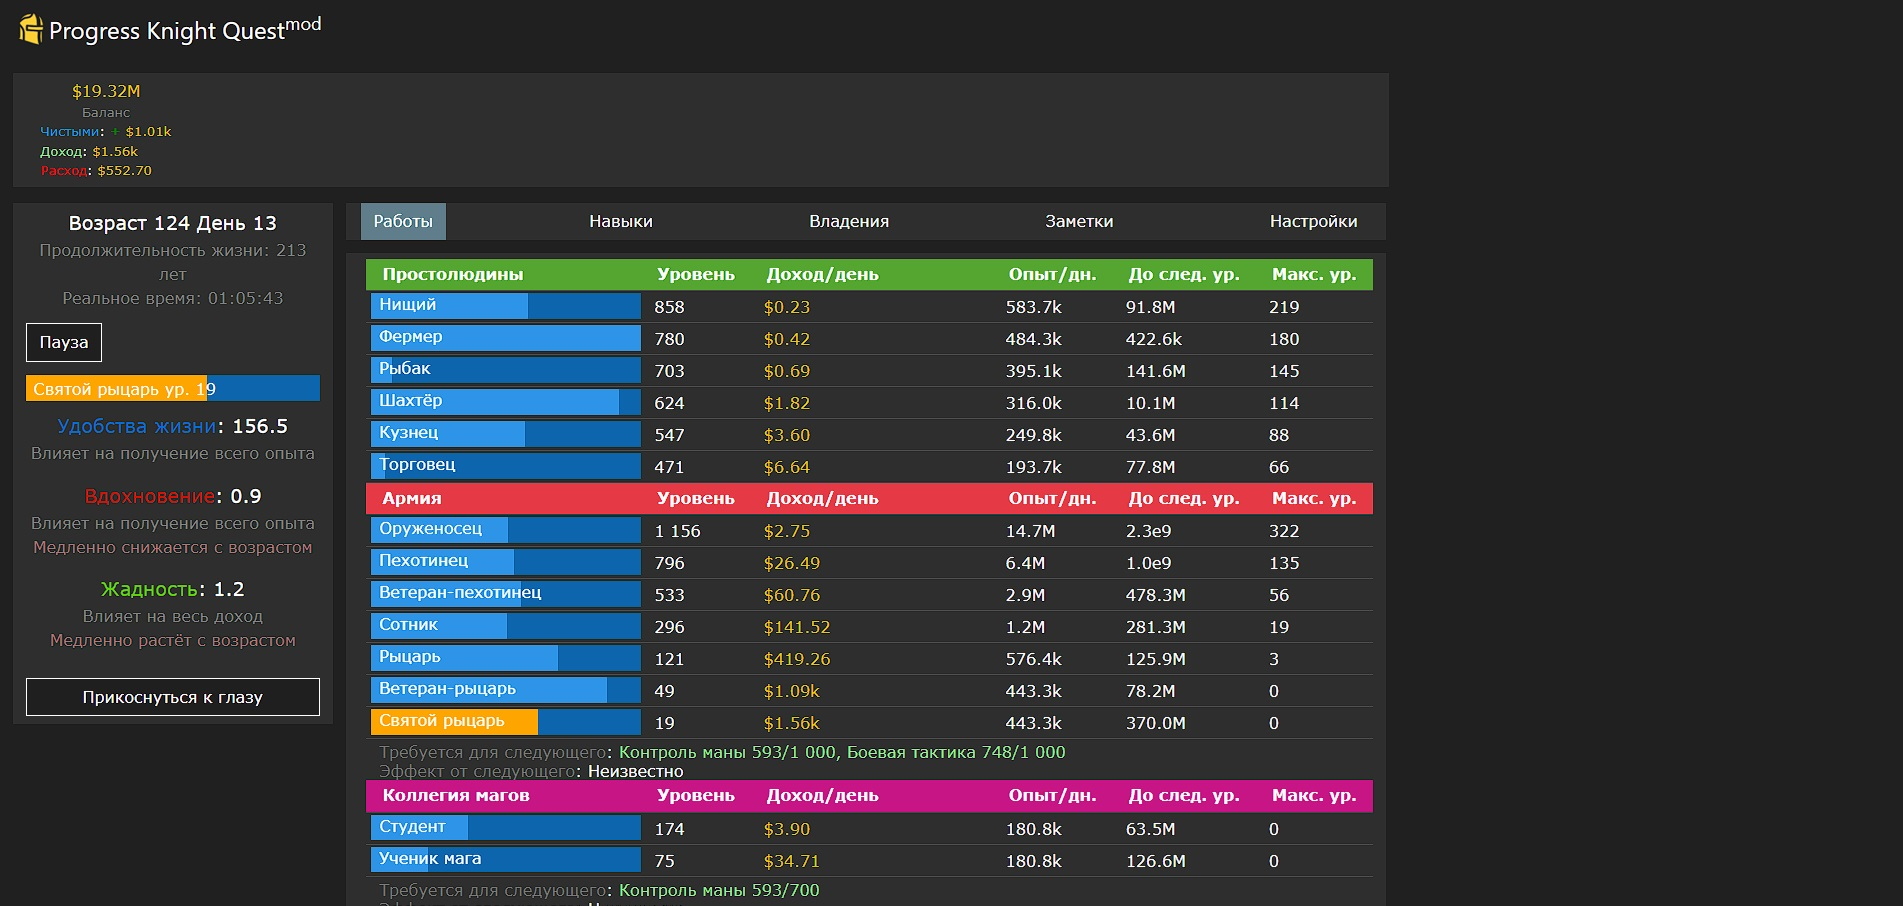
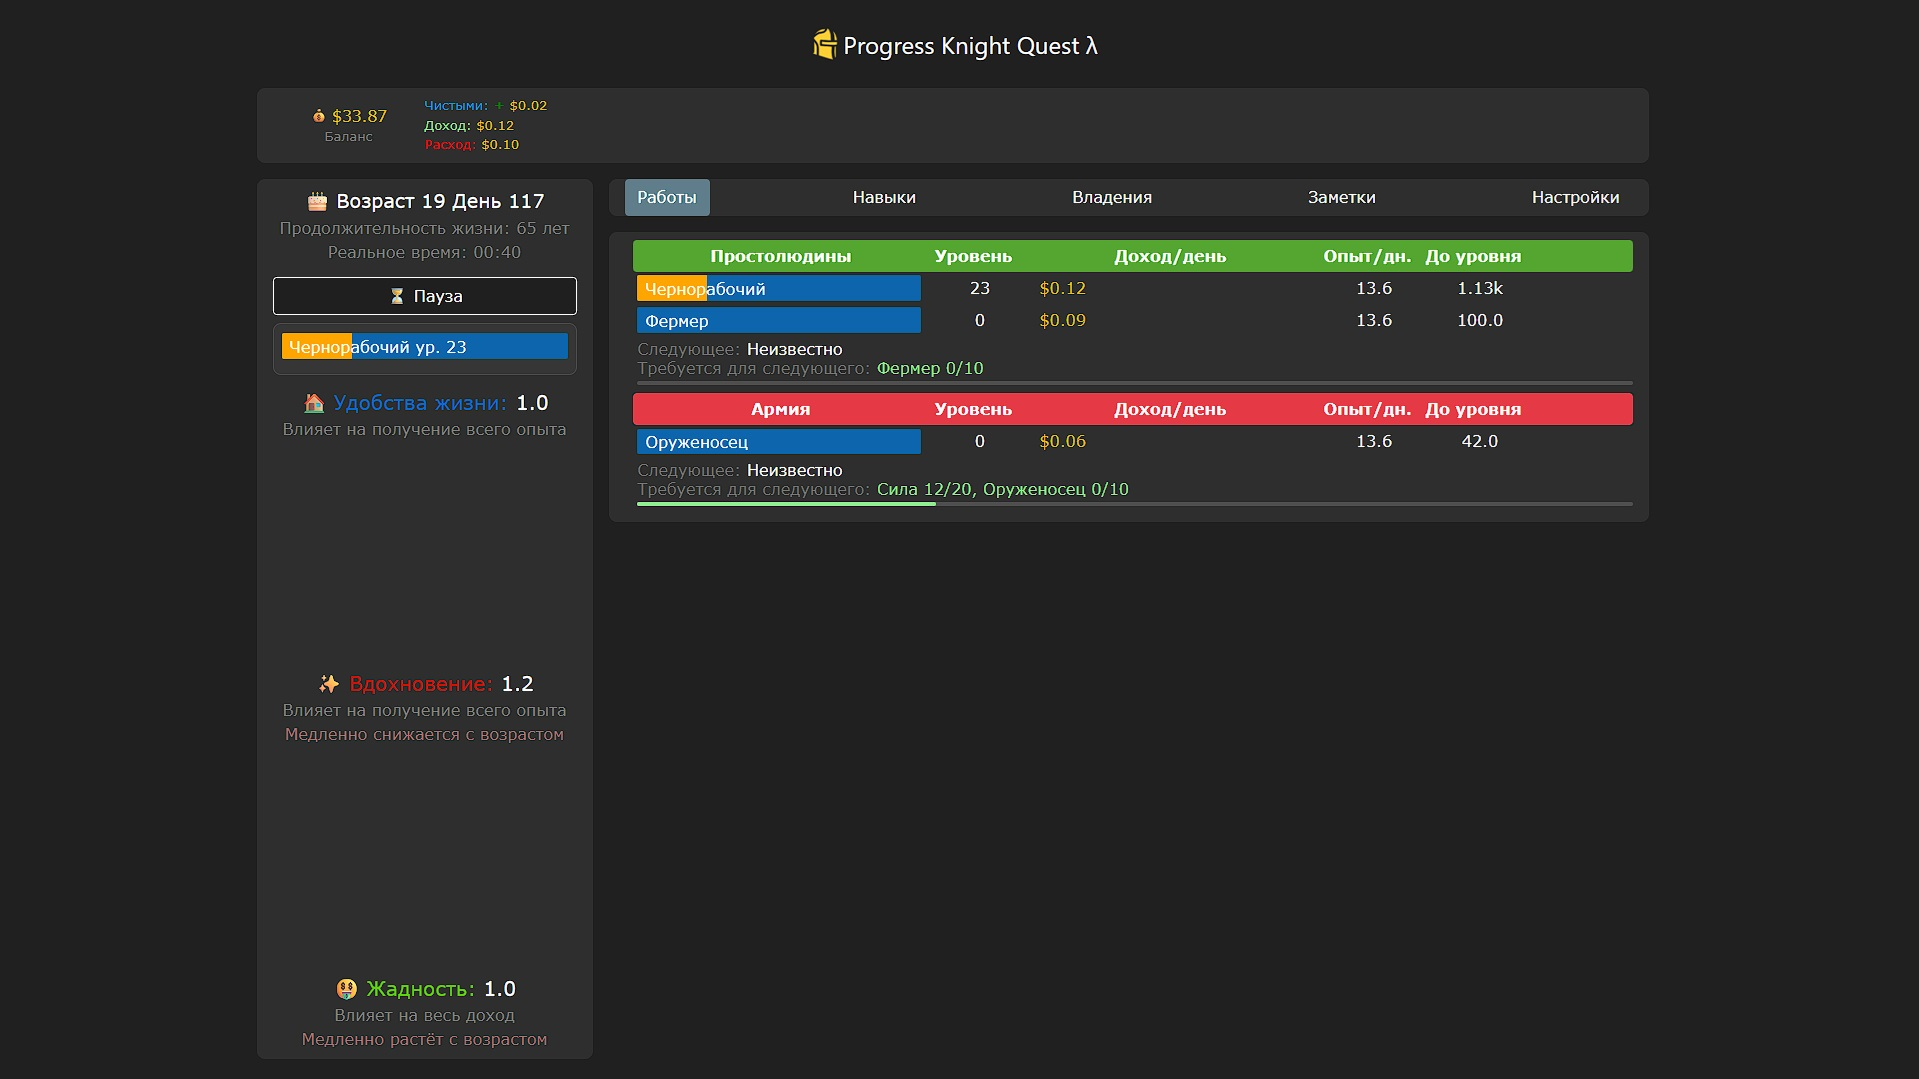
docs: карточка PKQ — самоназвание с лямбдой, свежий скриншот и описание (#23)

diff --git a/data/projects.py b/data/projects.py
@@ -27,9 +27,9 @@ class Tech:
 
 projects = [
     Project(
-        name="Progress Knight Quest Mod",
+        name="Progress Knight Quest λ",
         text="Мод для Progress Knight Quest",
-        description="Модификация кликер-RPG про перерождения с новыми классами, умениями и механиками",
+        description="Продолжение Progress Knight Quest с новым интерфейсом, темпом и балансом",
         url="https://justoneanotherprogger.github.io/progress_knight_project/",
         image="/static/img/PKQ-mod.jpg",
         repo="https://github.com/justoneanotherprogger/progress_knight_project",
